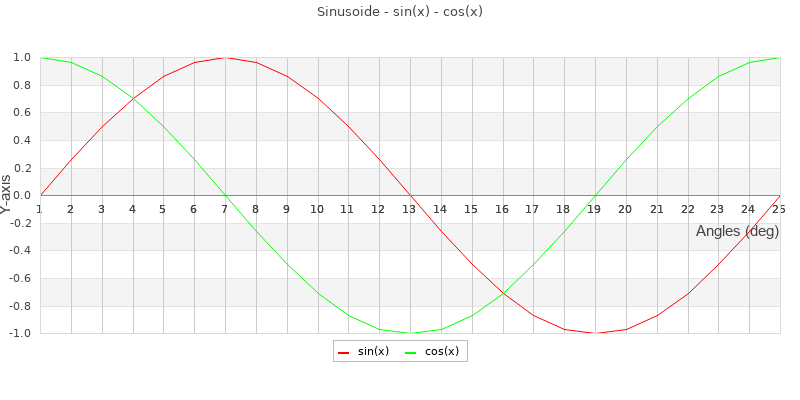
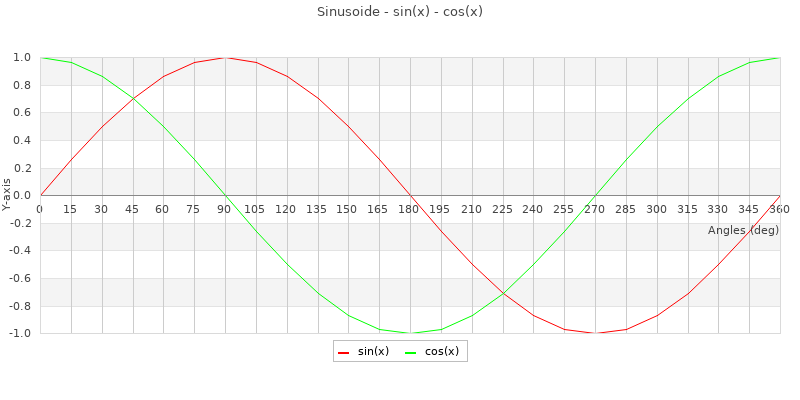
Update

diff --git a/day11.php b/day11.php
@@ -23,25 +23,27 @@ echo readfile('text_data/day11_data.txt');
 // a : for appending a new content. This mode will create a file if it does not exist
 // x : creates a file for writing and return FALSE if the corresponding file already exists
 
-// echo "<br><br><h4>Reading and writing using the function fread(path, numBytes) and fwrite(file,txt) </h4><br>";
-// // attempt to open the file
-// $path = "text_data/day11_data.txt";
-// $file = fopen($path, "a+") or die("Unable to open file!");
+echo "<br><br><h4>Reading and writing using the function 
+    fread(path, numBytes) and fwrite(file,txt) </h4><br>";
+// attempt to open the file
+$path = "text_data/day11_data.txt";
+$file = fopen($path, "a+") or die("Unable to open file!");
 
-// $initial_content =  readfile('text_data/day11_data.txt');
-// //
-// echo $initial_content;
+$initial_content =  readfile('text_data/day11_data.txt');
+//
+echo $initial_content;
 
-// // append a new content "\nStunt Business\n"
-// $to_add = "\n> Stunt Business (Added) \n";
-// // 
-// fwrite($file, $to_add);
+// append a new content "\nStunt Business\n"
+$to_add = "\n> Stunt Business (Added) \n";
+// 
+fwrite($file, $to_add);
 
-// fclose($file);
+fclose($file);
 
-// echo "<br><br><h4>Reading using the function readfile(path) after adding the text </h4><br>";
-// // read the file again
-// echo readfile('text_data/day11_data.txt');
+echo "<br><br><h4>Reading using the function 
+readfile(path) after adding the text </h4><br>";
+// read the file again
+echo readfile('text_data/day11_data.txt');
 
 
 

diff --git a/day30.php b/day30.php
@@ -57,7 +57,7 @@ while(!feof($file)) {
     // get the appropriate data
     // index 0 : angle - index 1 : sine - index 2 : cosine
     if(count($data) == 3){
-        $angles[] = (float) $data[0];
+        $__angles[] = (float) $data[0];
         $angles_sin[] = (float) $data[1];
         $angles_cos[] = (float) $data[2];
     }
@@ -65,9 +65,11 @@ while(!feof($file)) {
 }
 
 // index
-for($index = 0; $index < count($angles); $index++){
-    $ticklabels = strval($angles[$index]);
+for($index = 0; $index < count($__angles); $index++){
+    $__ticklabels[] = strval($__angles[$index]);
 }
+
+// var_dump($__ticklabels);
 
 fclose($file);
  
@@ -100,7 +102,7 @@ if (file_exists($path)) {
 
 $x=0;
 while ($x < count($angles)){
-    $tickposition[] = $x;
+    $__tickposition[] = $x;
     $x++;
 };
 
@@ -109,13 +111,13 @@ $graph->title->Set('Sinusoide - sin(x) - cos(x)');
 // Title for X-axis
 $graph->xaxis->title->Set('Angles (deg)');
 $graph->xaxis->title->SetMargin(4);
-$graph->xaxis->title->SetFont(FF_ARIAL,FS_NORMAL,11);
-$graph->xaxis->SetMajTickPositions($tickposition, $ticklabels);
+//$graph->xaxis->title->SetFont(FF_ARIAL,FS_NORMAL,11);
+$graph->xaxis->SetMajTickPositions($__tickposition, $__ticklabels);
 
 // Title for Y-axis
 $graph->yaxis->title->Set('Y-axis');
 $graph->yaxis->title->SetMargin(4);
-$graph->yaxis->title->SetFont(FF_ARIAL,FS_NORMAL,11);
+//$graph->yaxis->title->SetFont(FF_ARIAL,FS_NORMAL,11);
 
 $graph->legend->SetFrameWeight(1);
 $graph->legend->SetColumns(6);

diff --git a/outputs.php b/outputs.php
@@ -141,7 +141,9 @@
                        class="ml-2 form-control" 
                        placeholder="Enter your number" 
                        id="usr-input" value="0" required>
-                <button type="submit"  class="ml-2 custom-btn btn btn-primary" style="width: 15%;">Submit</button>
+                <button type="submit"  
+                        class="ml-2 custom-btn btn btn-primary" 
+                        style="width: 15%;">Submit</button>
             </form>
         </div>
         <hr>
@@ -171,7 +173,9 @@
                        class="ml-2 form-control" 
                        placeholder="Enter your number" 
                        id="usr-input" value="0" required>
-                <button type="submit"  class="ml-2 custom-btn btn btn-primary" style="width: 15%;">Submit</button>
+                <button type="submit"  
+                        class="ml-2 custom-btn btn btn-primary" 
+                        style="width: 15%;">Submit</button>
             </form>
         </div>
         <hr>

diff --git a/day25.php b/day25.php
@@ -9,8 +9,7 @@
 // Day 25 | IG : https://www.instagram.com/benjivrik/
 // Subject :  Challenge X - store and read items
 // ----------------------------------------------------
-//  what would be the output of this program ?
-// create a class Database for managing your database connection
+// what would be the output of this program ?
 // using the connection parameters from day24
 // create a table 'items' for storing each Item object created
 // create 5 items and store them in the created database table

diff --git a/day24.php b/day24.php
@@ -15,7 +15,7 @@
 // The data in MySQL are stored in tables consisting of columns and rows
 // a database is used for storing related information categorically
 // more info : https://www.w3schools.com/php/php_mysql_intro.asp
-// For this Q&A, we work with basic SQL TABLE and maintly using the 
+// For this Q&A, we work with basic SQL tables and mainly using the 
 // operations CREATE, INSERT, READ and DELETE 
 
 // require('day20.php')

diff --git a/day12.php b/day12.php
@@ -5,7 +5,7 @@
 // Community website : www.stuntbusiness.com
 // 
 // 30 Days - Q&A PHP Basic
-// Day 12: PHP JSON 
+// Day 12: PHP JSON  
 // Day 12 | IG : https://www.instagram.com/benjivrik/
 // Subject :  PHP JSON 
 // ----------------------------------------------------
